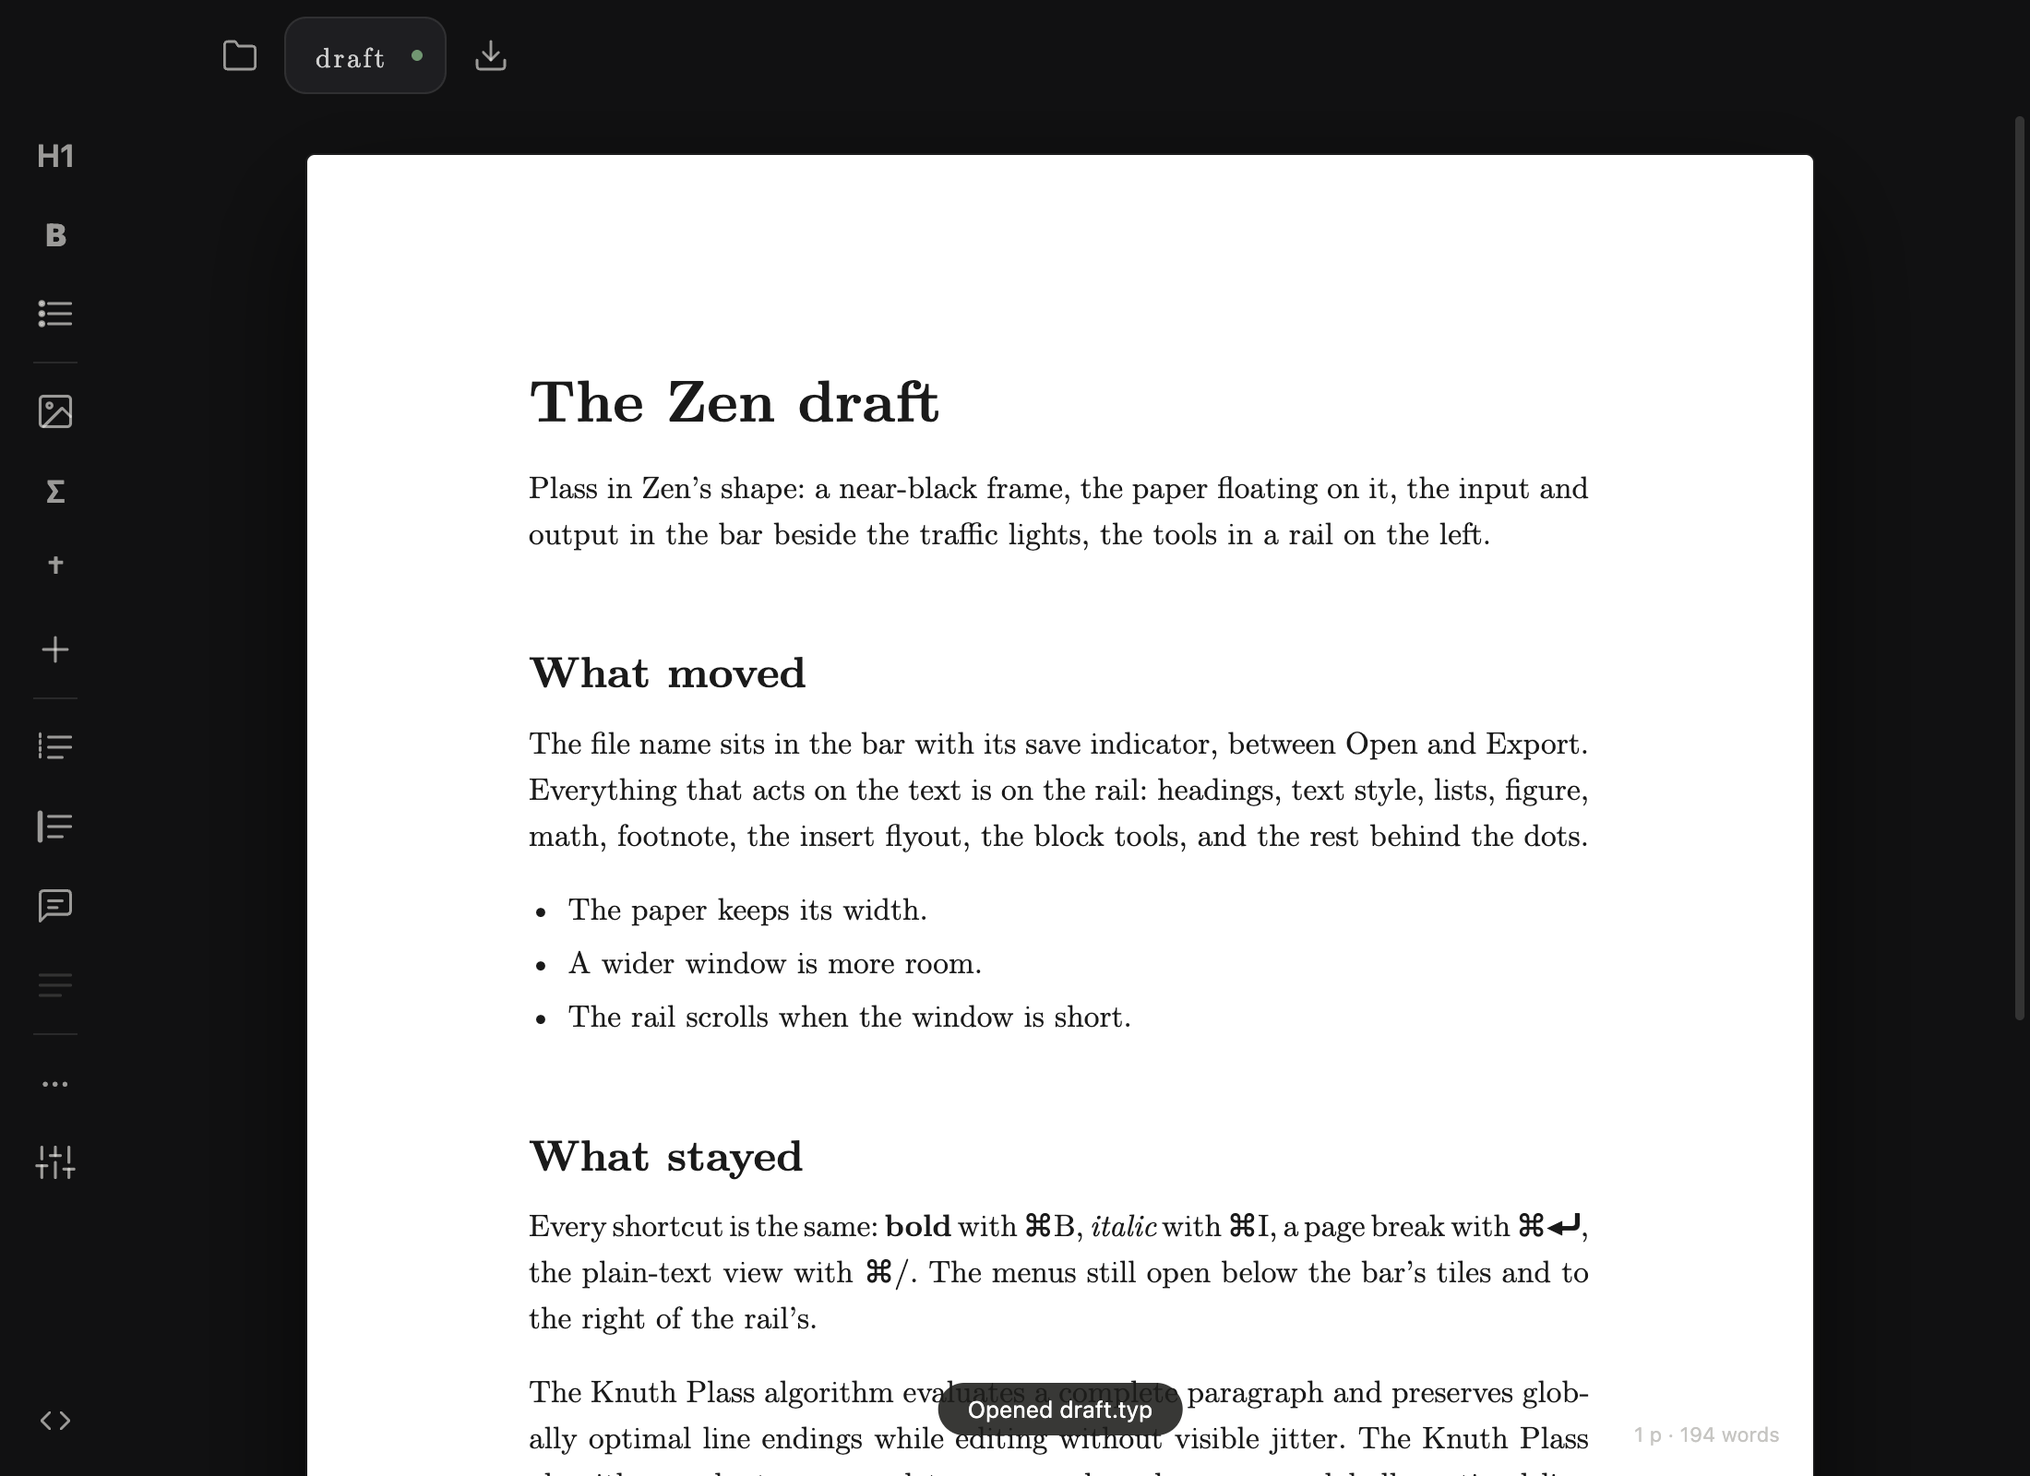
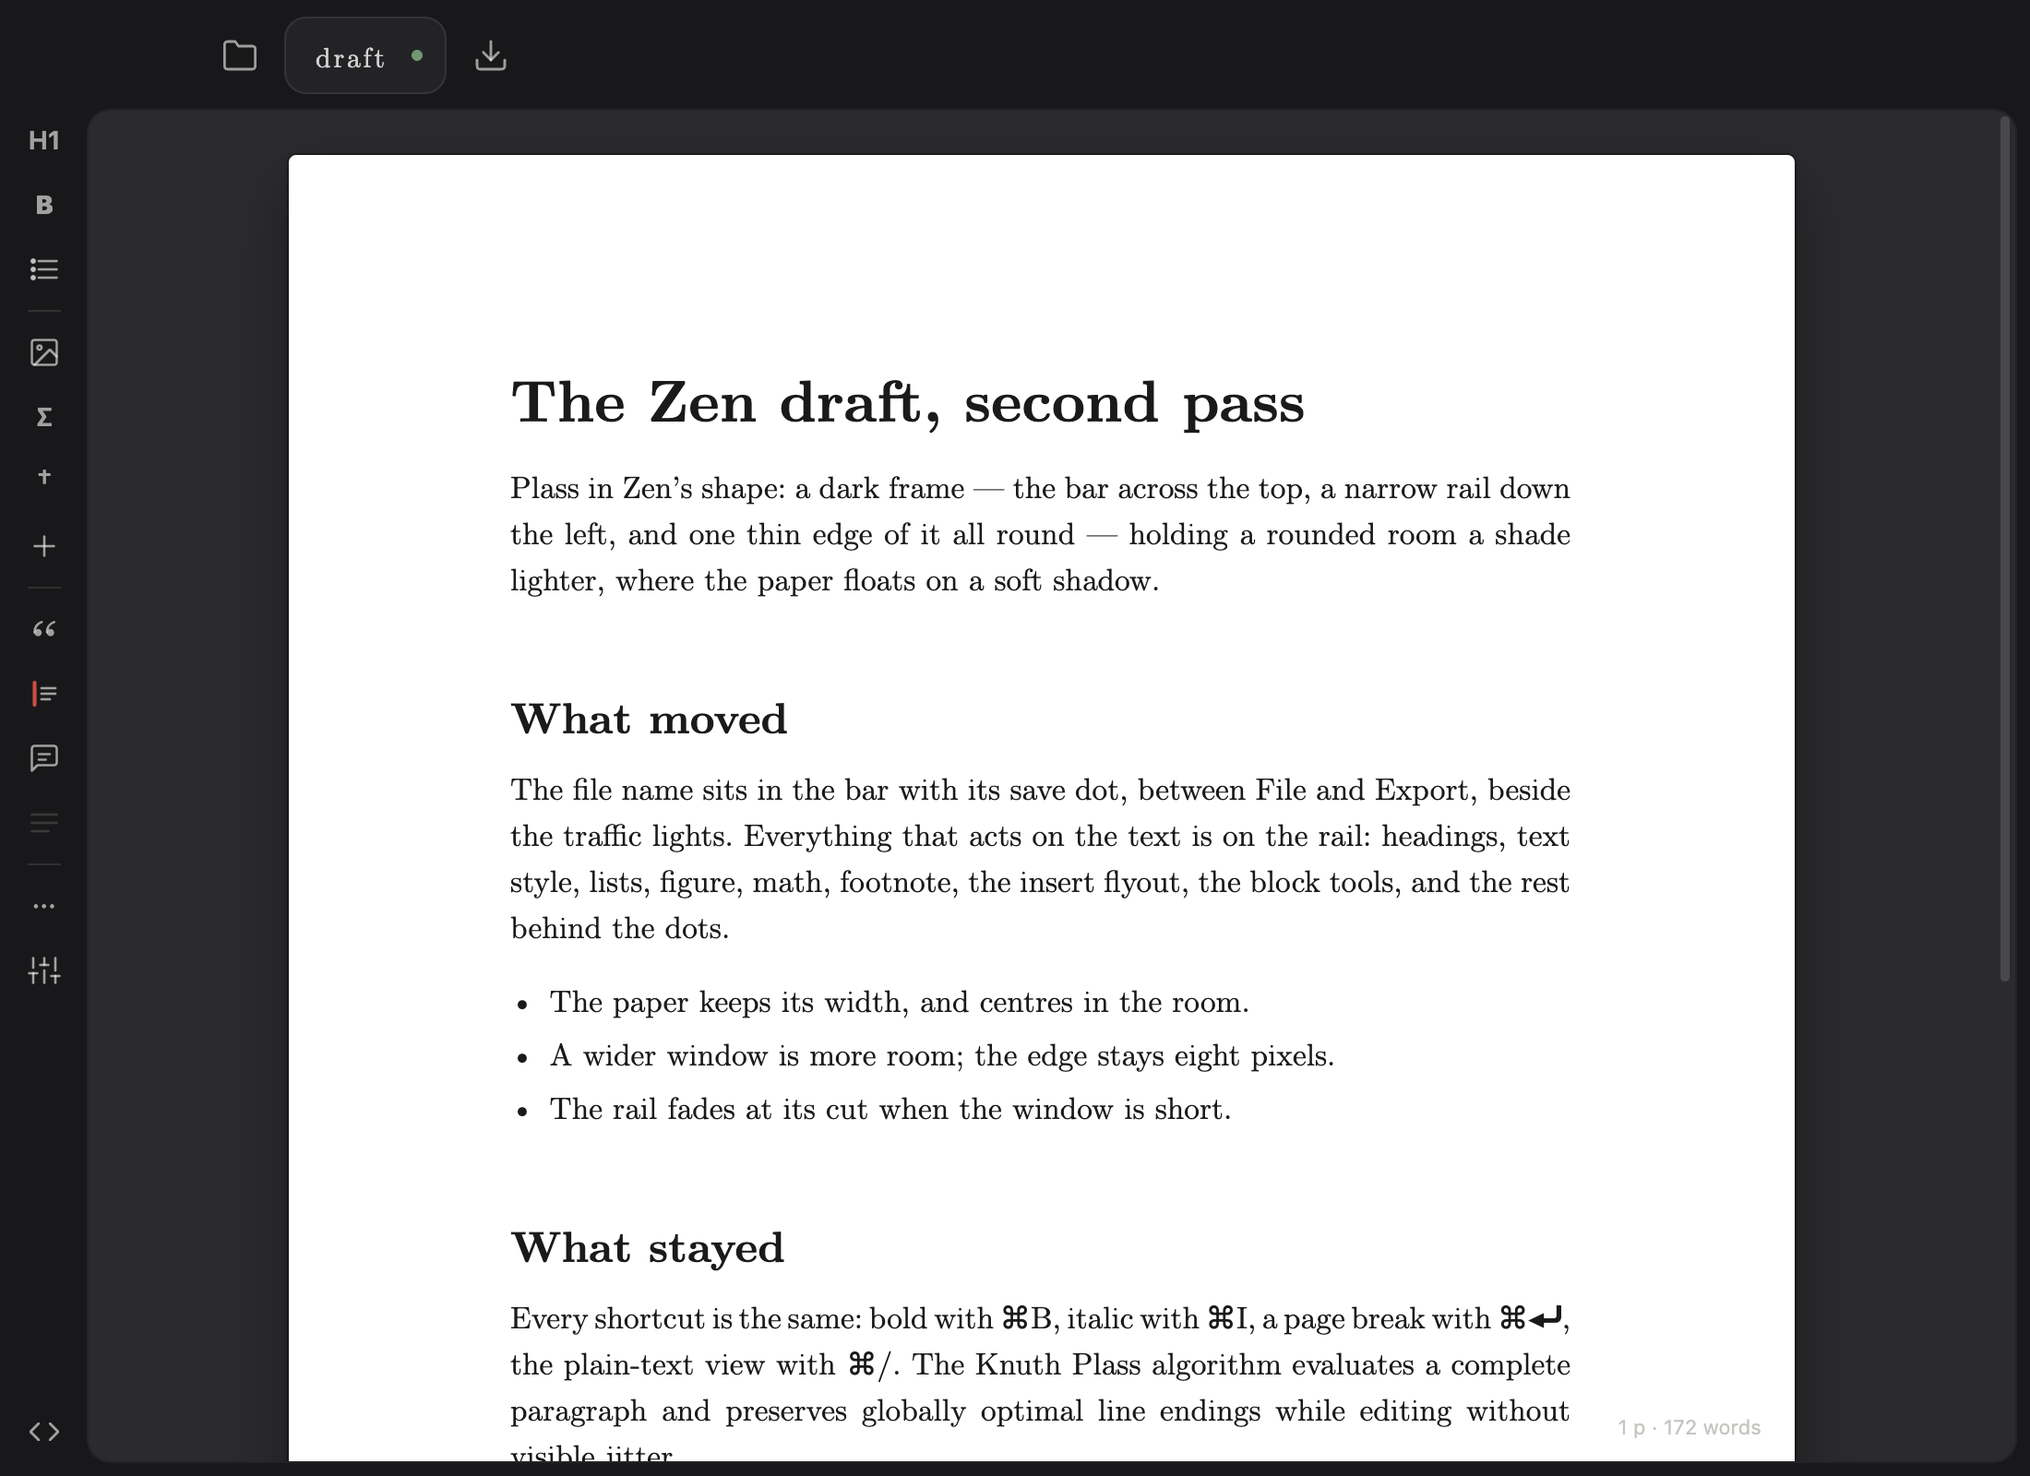
The Zen draft's record, second pass: what changed, the colours and sizes with their reasons, what is open
docs/ZEN-DRAFT.md gains the second pass (the reading of Taylor's note,
a table of the colours with where each came from, the sizes and why the
rail is 48 px rather than 44, each reviewer's finding and its fix) and
an open list in place of the first pass's questions, the reading of
"the page" first. The screenshots are the shell from the checkout at
1100 and 1500 px wide, page captures as before.

diff --git a/docs/ZEN-DRAFT.md b/docs/ZEN-DRAFT.md
@@ -1,14 +1,111 @@
 # The Zen draft
 
-The first draft of Plass in Zen's shape, 2026-10-02, on the branch
-`ux/zen`: the paper's way in and out in the bar beside the traffic
-lights, every tool on a rail down the left, the paper floating on one
-near-black surface. Run it from the worktree with `npm run app` (after
-`npx vite build`); the record is `docs/zen-draft-1100.png` and
-`docs/zen-draft-1500.png`, the shell from the checkout at 1100 and 1500
-px wide (page captures: the traffic lights are the window's own and are
-not in them; their room is the empty 100 px at the bar's left, which the
-File tile sits beside).
+Plass in Zen's shape, on the branch `ux/zen`: the paper's way in and out
+in the bar beside the traffic lights, every tool on a narrow rail down
+the left, and a dark frame — the bar, the rail and one thin edge all
+round — holding a rounded room where the paper floats. The first draft
+was 2026-10-02 early; the second pass, the same day, answers Taylor's
+look at it ("a touch too black, making it hard to see the shadow", "the
+sidebar is too wide", "an edge of the black all the way around, with
+curved edges around the page at all four corners") and the two
+reviewers' findings (below, *The second pass*). Run it from the worktree
+with `npm run app` (after `npx vite build`); the record is
+`docs/zen-draft-1100.png` and `docs/zen-draft-1500.png`, the shell from
+the checkout at 1100 and 1500 px wide (page captures: the traffic lights
+are the window's own and are not in them — `screencapture` of the window
+needs a screen-recording grant this session does not have; their room
+is the empty 100 px at the bar's left, which the File tile sits beside).
+
+## The second pass
+
+**The frame and the room.** The reading taken of "an edge of the black
+all the way around, with curved edges around the page at all four
+corners": Zen's window, where the page — here the room — is a rounded
+panel inset by a thin edge of the frame, the frame being the bar across
+the top, the rail down the left and that edge. So the room is a panel
+again (as on main before the first draft), rounded 12 px at all four
+corners, and the frame shows round it as one 8 px edge: below the name
+pill (the bar's band ends 9 px under it), between a rail tile and the
+room (the rail is 8 + 32 + 8), and at the window's right and bottom.
+The paper keeps its fixed width and centres in the room, 24 px under
+the room's top edge. Why the room and not the paper: the paper runs
+past the window's bottom (it scrolls), so an edge at the bottom and
+curved corners there can only be a viewport's — the room's — and a
+fixed-width paper centred in a wider window cannot have a thin edge on
+its sides. `--bg: var(--frame)` would undo the panel in one line (the
+first draft's one colour, with the 8 px edge as the paper's least gap),
+if the other reading was meant.
+
+**Colours, and why.**
+
+| | was | now | why |
+|---|---|---|---|
+| frame (`--frame`: body, bar, rail, edge) | #111112 | **#18181a** | Zen's own frame measures #131313–#141414 in Taylor's screenshot of it; there it reads as grey beside a black page. A step above it reads as dark grey beside a white paper and a grey room, still Zen's near-black. |
+| room (`--bg`) | the frame's | **#2b2a2d** | main's room before the first draft and the rail-layout mockup's: light enough that a black shadow shows on it, dark enough that the paper is the only light. |
+| name pill (`--pill`) | #1e1e21 | **#232326** | a shade up from the new frame, as before. |
+| lit tile (`--tile`) | #29292c | **#2e2e32** | Zen's lit square measures #2c2e2f. |
+| paper's shadow | white 6 % rim, black 50 % contact, black 60 % 24/64 px halo | **black 22 % rim, 32 % 1/3 px contact, 38 % 14/36 px halo** | on the grey room a soft black shadow reads by itself; the faint dark rim holds the paper's edge. |
+| room's edge | none | white 5 % hairline | the panel's rim against the frame, as on main. |
+
+`index.html`'s theme colour and the manifest follow the frame.
+
+**Sizes, and why.**
+
+- The rail: **48 px** (was 60): 32 px tiles (was 40), 18 px glyphs (was
+  20; the text glyphs H1, B, Σ, † at 14 px), 9 px tile radius, 18 px
+  hairlines (was 24). Zen's measures about 41 px with 33 px tiles; the
+  task said about 44. 48 is 32 + the frame's 8 on both sides, so the
+  gap from a tile to the room is the same 8 px as the window's edge —
+  one edge width everywhere. The first tile's top is level with the
+  room's top edge, the view switch's bottom with its bottom edge.
+- The bar: 60 px in a tab and the PWA, and in Plass.app **the lights'
+  band itself** (`--topbar: env(titlebar-area-height, 60px)`): the shell
+  publishes the band in CSS px, so under a zoom step the bar shrinks
+  with it (55 px at one step, 50 at two, measured in the shell) and the
+  row stays centred on the lights; in fullscreen the overlay is not
+  visible and the fallback holds (measured). The File tile, the pill
+  (42 px) and Export are unchanged.
+- The room: 8 px (`--edge`) from the window's right and bottom; the
+  paper 24 px (`--margin`) inside its top and sides, **48 px**
+  (`--margin-bottom`) above its bottom, the row the HUD sits in.
+
+**The reviewers' findings, fixed.**
+
+- *Settings over the bar*: the rail's flyouts and the settings panel go
+  through one placement (`src/flyout.ts`): beside the rail, level with
+  the tile, but never higher than 8 px under the bar, and no taller
+  than the room under that (scrolling inside itself). At 1100×800 the
+  settings panel is 68–792 px, the bar untouched.
+- *The HUD on the last page's edge*: the room keeps a 48 px row under
+  the last page and the HUD sits in it (20 px from the window's bottom),
+  23 px clear of the paper at the end of a document. The toast and the
+  image toolbar sit in the same row; all three, and the table toolbar,
+  take the paper's axis from one variable (`--axis`).
+- *The rail's groups cut with no cue*: the smaller tiles make the
+  groups 482 px (they were 586), so every tool shows down to a window
+  about 590 px tall (the 800 px default has room to spare; the first
+  draft needed 700). Below that a fade at the cut edge (the frame's colour laid over
+  the last or first tiles in view, held there while the groups scroll)
+  says which way the rest is; `toolbar.ts` sets it on scroll and
+  resize only.
+- *Quote and Solution looked like lists*: Block quote is now a pair of
+  quotation marks, Solution a red rule beside three lines (the solution
+  block's own mark).
+- *The bar against the lights under a zoom*: above; the smoke now checks
+  the bar's height against the band while zoomed.
+- *The Extras caption over the next row*: one rule for every glyph's
+  caption — beside its column, level with it: a rail tile's to the
+  rail's right, a flyout glyph's to the flyout's right (above the glyph
+  only when the window has no room beside the panel), so no caption
+  covers a row of its panel. All captions in the frame are the menus'
+  dark glass now (the rail's were light).
+- *Print*: the rail is hidden in toolbar.css's own print block, which
+  comes after the rail's `display: flex` (style.css's lost the cascade);
+  `frame.spec` checks the bar, the rail, the HUD and the switch print as
+  nothing.
+- *AGENTS.md*: the dropped word, and the frame described anew.
+- *The smoke's zoom step*: main's (merged in): the zoom goes through the
+  shell's View menu.
 
 ## What moved where
 
@@ -30,7 +127,7 @@ room (`env(titlebar-area-x)`; 0 in a browser tab and in the PWA):
 
 The rest of the bar is empty: drag region.
 
-**The rail** (60 px wide, 40 px tiles, under the bar down the left edge,
+**The rail** (48 px wide, 32 px tiles, under the bar down the left edge,
 `nav#rail`; not a drag region, since it scrolls), top to bottom, in the
 bar's old groups under hairlines:
 
@@ -53,19 +150,17 @@ bar's old groups under hairlines:
 - Pinned at the bottom: the **Plain text / Paper** switch ⌘/, a tile
   like the others, lit while the text is the truth.
 
-The groups scroll as one (no scrollbar drawn) when the window is shorter
-than they are; the switch stays put.
+The groups scroll as one (no scrollbar drawn, a fade at the cut) when
+the window is shorter than they are; the switch stays put.
 
-**The room**: the rest of the window, painted the frame's own colour
-(`--bg: var(--frame)`), no rounded panel, no inset. The paper (816 px,
-unchanged) is centred in it on at least `--margin` (24 px) to the bar,
-the rail and the window's edge, and hovers on a hairline rim, a contact
-shadow and a wide dark halo. The plain-text sheet fills the room's
-height the same way. The fixed chrome that sat on the window's axis —
-the HUD, the toast, the table toolbar, the image toolbar — now sits on
-the room's: `main.ts` hands the room's scrollbar width to `:root` as
-`--room-scrollbar`, and the stylesheet works the axis out from `--rail`
-and it. Print hides the rail with the bar.
+**The room**: a rounded panel a shade lighter than the frame, edged by
+it (above). The paper (816 px, unchanged) is centred in it and hovers
+on a soft shadow. The plain-text sheet fills the room's height the same
+way. The fixed chrome that sat on the window's axis — the HUD, the
+toast, the table toolbar, the image toolbar — sits on the room's:
+`main.ts` hands the room's scrollbar width to `:root` as
+`--room-scrollbar`, and `--axis` works the axis out from `--rail`,
+`--edge` and it. Print hides the rail with the bar.
 
 **Keyboard**: every shortcut is as it was. A rail tile's menu opens on
 ArrowDown, ArrowUp or ArrowRight and closes on ArrowLeft or Escape; the
@@ -90,10 +185,10 @@ are the same.
 
 ## What is still hidden, and why
 
-- **Alignment** (Justified, Center, Right) stays in Extras: fourteen
-  tiles already need about 650 px, and the 800 px default window gives
-  the rail 740. A second step could reparent the row into the rail
-  under `(min-height: 860px)`.
+- **Alignment** (Justified, Center, Right) stays in Extras: the rail
+  now has room for it at the 800 px default (fourteen tiles need about
+  530 px of the 740), so it could come out as a fifth group; it stays
+  behind ⋯ until Taylor says.
 - **Code** (3) and **Document** (3) stay in Extras: occasional tools.
 - **Recent papers**, **Get Plass**, **Check for updates** stay under
   File, as they were.
@@ -101,49 +196,45 @@ are the same.
 - The keymap-only commands (undo/redo, inline code ⌘`, headings 4–6,
   list Enter/Tab) have no tile, as before.
 
-## What I would ask Taylor
+## What is still open
 
-1. The hovering on near-black. A black shadow on #111112 barely reads,
-   so the floating is the rim (1 px at 6 % white), the contact shadow
-   and the halo (24 px / 64 px at 60 %). Does it read in the shell, or
-   is Zen's own answer — the lighter room panel — better? `--bg:
-   #2b2a2d` brings it back in one line.
-2. Should the rail's empty part drag the window, as Zen's sidebar does?
-   It is not a drag region in this draft: an Electron drag region takes
-   the wheel, so a draggable rail would need `no-drag` on the scrolling
-   groups wrapper, and the bar is enough to move the window.
-3. The rail's height budget: fourteen 40 px tiles. Under about 700 px
-   the groups scroll with no scrollbar, and at minHeight 360 only six
-   tiles show. 36 px tiles (pitch 40) would save 56 px; or Blocks could
-   fold back into Extras on short windows.
-4. 'File' or 'Open' for the top-left tile? Kept 'File' (its menu holds
-   New, Open, Recent, Save, Get Plass, updates), and three tests click
-   it by that name.
-5. The name pill between two bare tiles: 42 px with its hairline border,
-   as before. Or a bare name, Zen's URL style, with the dot?
-6. The HUD (`N p · M words`) sits 16 px from the bottom inside the paper's
-   right edge; with the room's uniform 24 px bottom margin it overlaps
-   the last page's bottom edge by 5 px when scrolled to the end (the
-   room's bottom padding was 56). Keep the uniform margin, or pad the
-   bottom for the HUD?
-7. Captions: a rail tile's shows to its right; the Extras and Insert
-   rows' still show below. One rule, or is the difference right?
-8. The glyph for Insert ▸: a plus. Zen's plus opens a new tab at the
-   bottom of its sidebar; here it sits mid-rail. A table glyph instead?
+1. **The reading of "the page".** This pass takes it as Zen's page — the
+   room, a rounded panel inside a thin frame edge — with the paper
+   floating in it. If Taylor meant the paper itself (rounded corners on
+   the sheet, the surround one colour), `--bg: var(--frame)` and a
+   `border-radius: 10px` on `.page-box` and `#source` are the two lines;
+   the paper's corners stay 4 px here because the sheet is the PDF's
+   page.
+2. **The frame's shade.** #18181a, a step above Zen's measured
+   #131313–#141414. If "a touch too black" meant the frame itself
+   should go further, #1c1c1f or #202024 are the next steps (the pill
+   and the lit tile would move up with it).
+3. **The rail at 48 vs 44.** 48 keeps the tile-to-room gap equal to the
+   window's edge; 44 would mean 6 px edges either side of a tile, or a
+   rail edge that differs from the window's.
+4. **Alignment on the rail?** It fits now (above).
+5. **Should the rail's empty part drag the window**, as Zen's sidebar
+   does? Still no: the groups scroll, and a drag region takes the wheel.
+6. **'File' or 'Open'** for the top-left tile? Kept 'File'.
+7. **The name pill**: 42 px with its hairline, between two bare tiles;
+   or a bare name, Zen's URL style? And should it stretch, or carry the
+   path, at 1500 px where the bar is otherwise empty?
+8. **The Insert ▸ glyph**: a plus mid-rail, which in Zen means a new
+   tab; a table glyph instead?
+9. **The record's screenshots** are page captures without the native
+   traffic lights; a window capture needs the screen-recording grant.
 
-## Checks
+## Checks (second pass)
 
-- `npm test`: green. `npm run build` (the sidecar, unused-code, exports and
-  cycle checks, tsc, vite): green.
-- `npx playwright test --project=chromium`: 171 passed, after the three
-  tests that reached a moved item through Extras (grid, editor-comments,
-  solution-block) were pointed at the rail, and frame, toolbar,
-  source-view and native-tables were updated for the shape.
-- `node app/smoke.mjs`: the open, the typesetting, ⌘S and the drag wider
-  pass, and so do the rail under the bar, the overlay padding and the
-  File tile beside the lights' room — but the smoke stops before them at
-  its zoom step: the shell checkout beside this one (its working tree,
-  2026-10-02) scales the window only from its View menu's `zoomTo`, not
-  for a `webContents.setZoomLevel(1)` from outside, and main's own page
-  fails the same step against it. A copy of the smoke with the zoom step
-  skipped runs to "ok". The shell is not this branch's to change.
+- `npm test`: green. `npm run build` (the sidecar, unused-code, exports
+  and cycle checks, tsc, vite): green.
+- `npx playwright test --project=chromium`: 173 passed. `frame.spec`
+  checks the colours, the rounded room, the 8 px edge, the 48 px rail
+  with 32 px tiles, the HUD clear of the last page at the end, the
+  settings panel and a flyout below the bar, the fade at a short
+  window's cut, and print; `toolbar.spec` checks a flyout glyph's
+  caption sits beside the panel, level with the glyph.
+- `node app/smoke.mjs` (the shell checkout beside the main one, on main
+  with the title-bar option and follow-zoom): ok, through the View
+  menu's zoom, with the bar's height checked against the lights' band
+  while zoomed and the room's 8 px edge checked after.
